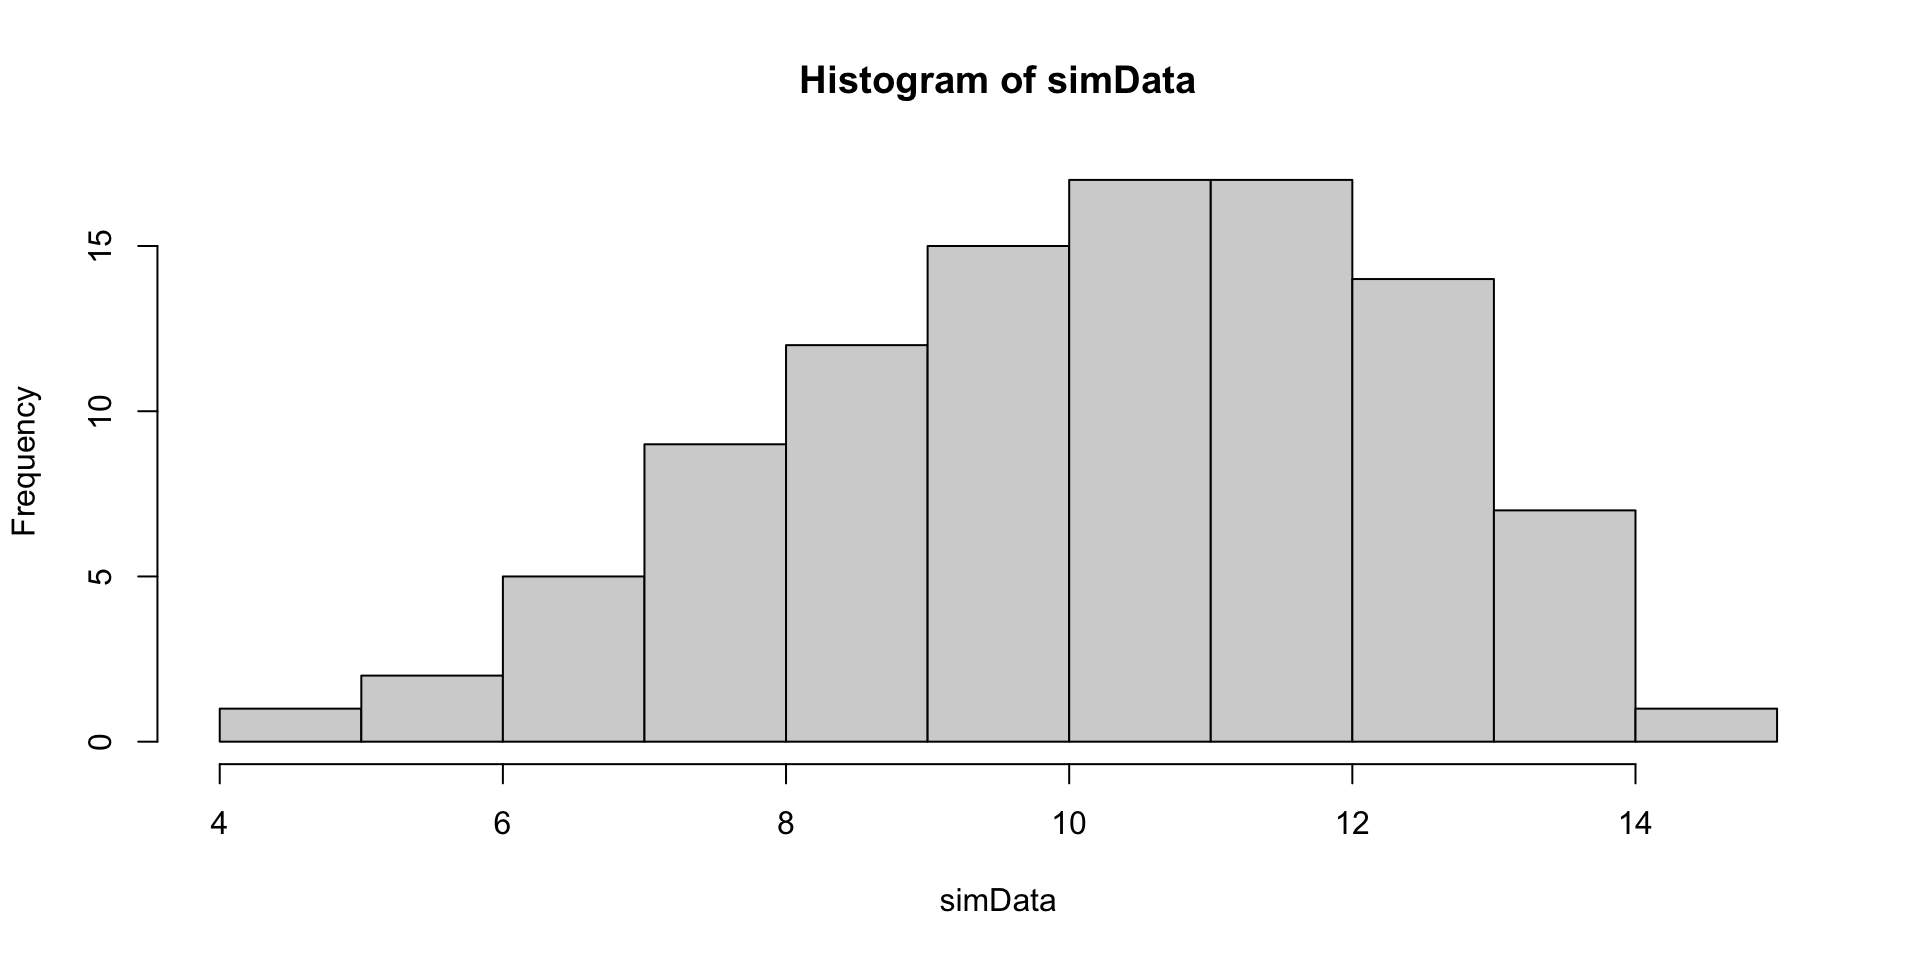
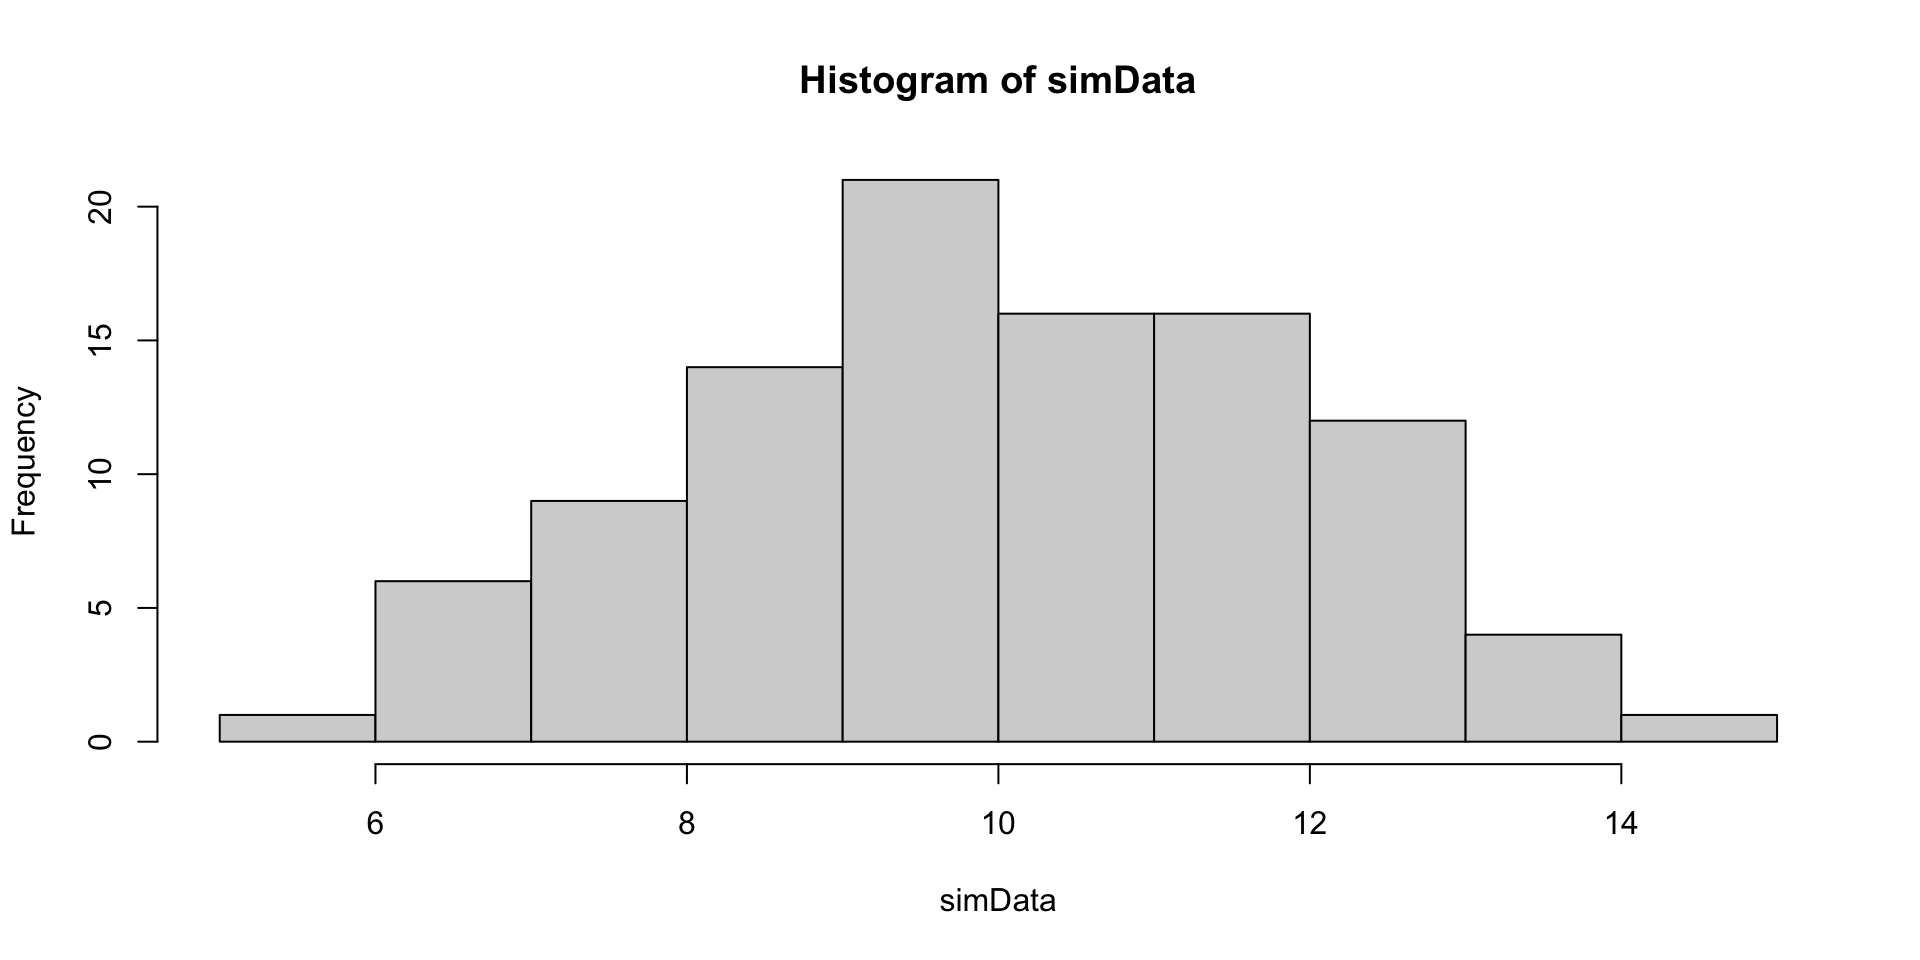
update 20240522

diff --git a/docs/assets/slides/lecture1.html b/docs/assets/slides/lecture1.html
@@ -804,12 +804,12 @@
 <div class="sourceCode cell-code" id="cb38"><pre class="sourceCode numberSource r number-lines code-with-copy"><code class="sourceCode r"><span id="cb38-1"><a></a>simData <span class="ot">&lt;-</span> <span class="fu">rnorm</span>(<span class="dv">100</span>, <span class="at">mean =</span> <span class="dv">10</span>, <span class="at">sd =</span> <span class="dv">2</span>)      <span class="co"># 生成 100 个服从 N(10, 2^2) 的随机数</span></span>
 <span id="cb38-2"><a></a><span class="fu">c</span>(<span class="fu">mean</span>(simData), <span class="fu">var</span>(simData), <span class="fu">sd</span>(simData))   <span class="co"># 求样本均值、样本方差和样本标准差</span></span></code><button title="Copy to Clipboard" class="code-copy-button"><i class="bi"></i></button></pre></div>
 <div class="cell-output cell-output-stdout">
-<pre><code>[1] 10.185594  4.442609  2.107750</code></pre>
+<pre><code>[1] 9.965752 3.710885 1.926366</code></pre>
 </div>
 <div class="sourceCode cell-code" id="cb40"><pre class="sourceCode numberSource r number-lines code-with-copy"><code class="sourceCode r"><span id="cb40-1"><a></a><span class="fu">summary</span>(simData)                              <span class="co"># 显示 sim 的描述性统计量</span></span></code><button title="Copy to Clipboard" class="code-copy-button"><i class="bi"></i></button></pre></div>
 <div class="cell-output cell-output-stdout">
 <pre><code>   Min. 1st Qu.  Median    Mean 3rd Qu.    Max. 
-  4.987   8.726  10.430  10.186  11.753  14.358 </code></pre>
+  5.636   8.824   9.903   9.966  11.362  14.554 </code></pre>
 </div>
 <div class="sourceCode cell-code" id="cb42"><pre class="sourceCode numberSource r number-lines code-with-copy"><code class="sourceCode r"><span id="cb42-1"><a></a><span class="fu">hist</span>(simData)                                     <span class="co"># 画直方图</span></span></code><button title="Copy to Clipboard" class="code-copy-button"><i class="bi"></i></button></pre></div>
 
@@ -823,31 +823,31 @@
 <span id="cb43-3"><a></a>mydata</span></code><button title="Copy to Clipboard" class="code-copy-button"><i class="bi"></i></button></pre></div>
 <div class="cell-output cell-output-stdout">
 <pre><code>          Qtr1      Qtr2      Qtr3      Qtr4
-1980 10.708035 10.700184 10.590652  5.815130
-1981 10.558424  8.927074 10.845801  8.611551
-1982  8.669853  9.856191 11.749573  8.767241
-1983  7.889519 10.253606  7.278482  9.822089
-1984  9.532941 12.446561 11.835172  5.292277
-1985 12.094152  7.116744 11.045953  8.164090
-1986 10.522020 12.033055  6.326227 10.266675
-1987  8.040169  7.700520  9.693745 11.406721
-1988 13.458012 13.776898 11.625925 12.312619
-1989 12.613230 11.761831 12.050888  8.319644
-1990  8.798271  7.919231  7.936008  6.268639
-1991 10.910109 12.783742  9.376673 13.203286
-1992 10.410863  9.299600 12.281544 11.022189
-1993 10.130211  7.662521 11.979844  9.626112
-1994 10.416211 12.077936  8.744918 11.685580
-1995  8.601648  8.094782 11.444585 11.739039
-1996 11.703520  6.963215 10.911149 11.377305
-1997 11.305646 13.409401  7.310022  9.967388
-1998 12.420338 12.779758  6.322634  9.154425
-1999 13.794065  9.838574 11.159178  8.206040
-2000 11.683190 13.219041 12.664969 13.185881
-2001 12.284056  6.318481 12.706599  9.518151
-2002 14.357976 10.444750  9.307620  7.866954
-2003  9.021633 10.863902  9.284822  4.987490
-2004  9.121473 11.301007 10.619663 10.286105</code></pre>
+1980  8.590432 12.738864 13.527495 10.605377
+1981  9.366908 12.537746 12.109877  9.341081
+1982  7.561175  8.841184 11.437164  9.020002
+1983  9.262016  9.103535 12.575601 11.102918
+1984 12.070868  7.033637  7.824323 11.161861
+1985  8.912599 13.494598 10.185011  8.518554
+1986 11.089235  9.774326  9.825322 11.396924
+1987 10.388691  9.159256 10.099798  9.875571
+1988  9.021521 10.507555 11.187148 10.388298
+1989  7.290094  6.251527  8.170309  8.056265
+1990  5.636105 13.085067 10.522897  9.174636
+1991  8.577362 10.764758 12.629438 14.554467
+1992 12.633202 11.099669  8.960895 10.377175
+1993  6.389411 10.650284  9.929486 12.970603
+1994  8.452212  8.975750 11.350229  7.568048
+1995  8.772953 12.992118  9.838188  9.277183
+1996 11.721349  9.115946  9.273120  9.049509
+1997  8.885557 11.419807  7.939586  7.083347
+1998  6.712625  6.382576  8.287647  6.285810
+1999 11.454300 10.069194 10.180675  9.814681
+2000 12.046657  6.875670 12.703627 10.188280
+2001 12.345928  9.571350  7.403219 10.723513
+2002 11.099041  7.808599 10.079300 11.581863
+2003 11.461207  8.376340 11.103811 11.757871
+2004  9.558180 13.718927 10.319889  9.589425</code></pre>
 </div>
 </div>
 </section>

diff --git a/docs/materials1.html b/docs/materials1.html
@@ -336,7 +336,7 @@ window.Quarto = {
 <p><strong>R和RStudio的安装</strong>：访问 <a href="https://posit.co/download/rstudio-desktop/" class="uri">https://posit.co/download/rstudio-desktop/</a>，根据提示依次下载并安装 R 和 RStudio</p>
 <div class="quarto-figure quarto-figure-center">
 <figure class="figure">
-<p><a href="assets/images/posit.png" class="lightbox" data-gallery="quarto-lightbox-gallery-1" data-glightbox="description: .lightbox-desc-1" title="Mac 上显示的下载页面"><img src="assets/images/posit.png" class="img-fluid rounded border shadow-lg figure-img" alt="Mac 上显示的下载页面"></a></p>
+<p><a href="assets/images/posit.png" class="lightbox" data-glightbox="description: .lightbox-desc-1" data-gallery="quarto-lightbox-gallery-1" title="Mac 上显示的下载页面"><img src="assets/images/posit.png" class="img-fluid rounded border shadow-lg figure-img" alt="Mac 上显示的下载页面"></a></p>
 <figcaption>Mac 上显示的下载页面</figcaption>
 </figure>
 </div>
@@ -850,7 +850,7 @@ window.document.addEventListener("DOMContentLoaded", function (event) {
     </div>
   </div>
 </footer>
-<script>var lightboxQuarto = GLightbox({"openEffect":"zoom","descPosition":"bottom","selector":".lightbox","loop":false,"closeEffect":"zoom"});
+<script>var lightboxQuarto = GLightbox({"openEffect":"zoom","loop":false,"selector":".lightbox","descPosition":"bottom","closeEffect":"zoom"});
 window.onload = () => {
   lightboxQuarto.on('slide_before_load', (data) => {
     const { slideIndex, slideNode, slideConfig, player, trigger } = data;

diff --git a/docs/tutorial2.html b/docs/tutorial2.html
@@ -40,6 +40,7 @@ ul.task-list li input[type="checkbox"] {
 <script src="site_libs/bootstrap/bootstrap.min.js"></script>
 <link href="site_libs/bootstrap/bootstrap-icons.css" rel="stylesheet">
 <link href="site_libs/bootstrap/bootstrap.min.css" rel="stylesheet" id="quarto-bootstrap" data-mode="light">
+<link href="site_libs/quarto-contrib/bootstrap-icons-1.11.1/all.css" rel="stylesheet">
 <script id="quarto-search-options" type="application/json">{
   "location": "navbar",
   "copy-button": false,
@@ -317,7 +318,7 @@ window.Quarto = {
 <p>将上面课堂练习的结果记录在一个 Word 文档中，需包括 R 程序和对应的运行结果，以及对每个问题的回答。</p>
 <p>将文档命名为 “T2_学号_姓名.docx”，例如 “T2_2024123456_张三.docx”，并通过微助教提交。</p>
 <p><strong>截止日期</strong>：2024年5月19日（星期日）23:59</p>
-<p><strong>参考程序</strong>：提交截止后更新</p>
+<p><strong>参考程序</strong>：<i class="bi-file-earmark-code " style="" role="img" aria-hidden="true"></i><a href="./assets/scripts/Tutorial2.R">Tutorial2.R</a></p>
 
 
 </section>

diff --git a/docs/index.html b/docs/index.html
@@ -860,7 +860,7 @@ window.document.addEventListener("DOMContentLoaded", function (event) {
     </div>
   </div>
 </footer>
-<script>var lightboxQuarto = GLightbox({"selector":".lightbox","closeEffect":"zoom","loop":false,"openEffect":"zoom","descPosition":"bottom"});
+<script>var lightboxQuarto = GLightbox({"closeEffect":"zoom","loop":false,"selector":".lightbox","openEffect":"zoom","descPosition":"bottom"});
 window.onload = () => {
   lightboxQuarto.on('slide_before_load', (data) => {
     const { slideIndex, slideNode, slideConfig, player, trigger } = data;

diff --git a/docs/materials3.html b/docs/materials3.html
@@ -339,8 +339,8 @@ y_t &amp;= w_t - \theta w_{t-1} + u_t ,
 \rho_y(h) =
 \begin{cases}
 1 &amp; \text{if } h = 0 \\
-\frac{- \theta \sigma_w^2}{(1+\theta^2) \sigma_w^2 + \sigma_u^2} &amp; \text{if } h = 1 \\
-0 &amp; \text{if } h &gt; 1 \\
+\frac{- \theta \sigma_w^2}{(1+\theta^2) \sigma_w^2 + \sigma_u^2} &amp; \text{if } |h| = 1 \\
+0 &amp; \text{if } |h| &gt; 1 \\
 \end{cases}
 </span></p>
 <p>b.</p>
